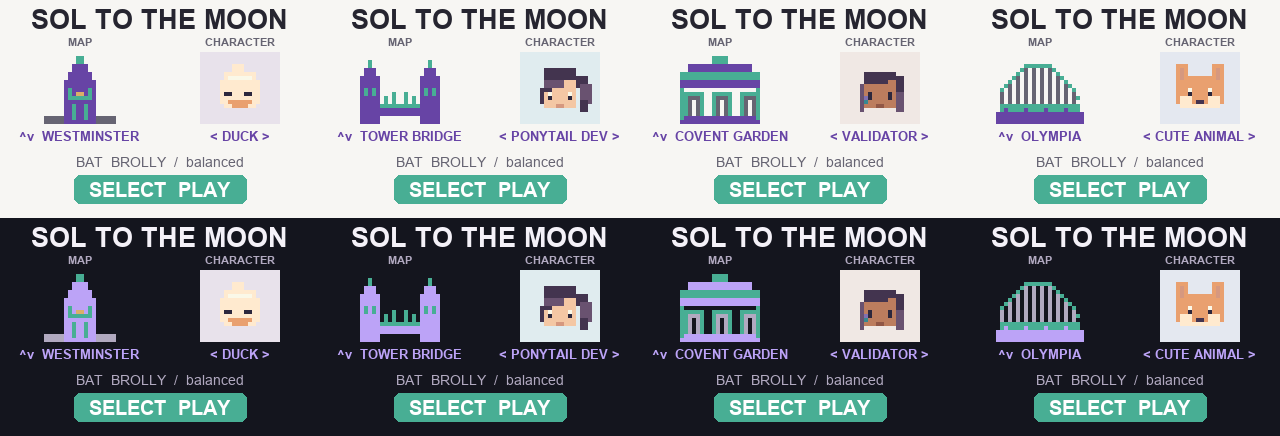
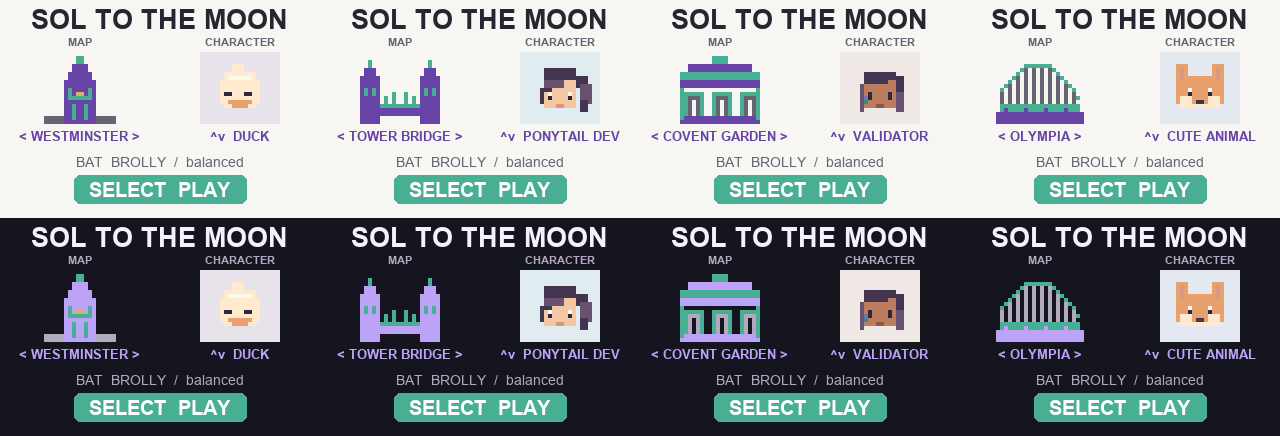
release: finalize press-to-pump controls and store copy

diff --git a/sim.py b/sim.py
@@ -12,11 +12,14 @@ def tick(n=1):
 def state(): return G._S.mode
 
 def play_swing(release_at_y):
-    """hold select from the first tick, release when token y >= release_at_y"""
-    while state() in ("intro", "ready"):
-        tick()
-    assert state() == "drop"
+    """press to drop, hold for power, release near the bat"""
+    while state() == "intro": tick()
+    keys["select"] = False
+    while state() == "ready" and not G._S.armed: tick()
+    assert state() == "ready" and G._S.token.y == -8
     keys["select"] = True
+    G.on_key("select", False)
+    assert state() == "drop" and G._S.charging
     while state() == "drop":
         tick()
         if G._S.token.y >= release_at_y: keys["select"] = False
@@ -31,21 +34,21 @@ random.seed(1)
 assert state() == "title"
 assert any(x == ("label", "SOL TO THE MOON") for x in log), "new title must render immediately"
 assert store.get("stage1Done") is None
-G.on_key("up", False)
-assert store.get("map") == 2, "UP should cycle map without starting the game"
-G.on_key("up", False); assert store.get("map") == 3
-G.on_key("up", False); assert store.get("map") == 4, "Olympia must be selectable"
-assert any(x == ("label", "^v  OLYMPIA") for x in log)
-G.on_key("up", False); assert store.get("map") == 1, "map selection must wrap"
-G.on_key("up", False); assert store.get("map") == 2
-assert any(x == ("label", "^v  COVENT GARDEN") for x in log)
-tick(2)  # exercise the preview renderer after switching maps
-G.on_key("left", False)  # wraps past the hidden skin
+G.on_key("right", False)
+assert store.get("map") == 2, "RIGHT should cycle map without starting the game"
+G.on_key("right", False); assert store.get("map") == 3
+G.on_key("right", False); assert store.get("map") == 4, "Olympia must be selectable"
+assert any(x == ("label", "< OLYMPIA >") for x in log)
+G.on_key("right", False); assert store.get("map") == 1, "map selection must wrap"
+G.on_key("right", False); assert store.get("map") == 2
+assert any(x == ("label", "< TOWER BRIDGE >") for x in log)
+tick(2)
+G.on_key("up", False)  # wraps past the hidden skin
 assert store.get("skin") == 9, "hidden skin must be skipped before stage 1 is done"
-G.on_key("down", False); assert store.get("map") == 1, "DOWN selects the previous map"
-G.on_key("down", False); assert store.get("map") == 4, "DOWN wraps from first to last map"
-G.on_key("up", False); assert store.get("map") == 1
-G.on_key("up", False); assert store.get("map") == 2
+G.on_key("left", False); assert store.get("map") == 1, "LEFT selects the previous map"
+G.on_key("left", False); assert store.get("map") == 4, "LEFT wraps from first to last map"
+G.on_key("right", False); assert store.get("map") == 1
+G.on_key("right", False); assert store.get("map") == 2
 G.on_key("select", False); assert state() == "intro", state()
 keys["select"] = True  # nervous player holds/mashes during the fly-in
 G.on_key("select", False)
@@ -53,7 +56,7 @@ tick(21); assert state() == "ready", "fly-in must lead to a protected ready stat
 tick(40); assert state() == "ready" and G._S.token.y == -8, "held input must not consume a kick"
 keys["select"] = False
 tick(14); assert state() == "ready", "release needs a brief calm beat"
-tick(1); assert state() == "drop" and not G._S.charging and G._S.token.y == -8
+tick(1); assert state() == "ready" and G._S.armed and G._S.token.y == -8
 assert G._S.map == 2, "selected scene must carry into gameplay"
 results = [play_swing(43)]
 assert state() == "intro", "second kick should have its own fly-in"
@@ -65,7 +68,7 @@ keys["select"] = False
 results.extend([play_swing(36), play_swing(60)])
 assert store.get("stage1Done") is True, "Sabadinhos skin should unlock after stage 1"
 G.on_key("back", False); assert state() == "title"
-G.on_key("right", False); assert store.get("skin") == 10, "Sabadinhos should be selectable after stage 1"
+G.on_key("down", False); assert store.get("skin") == 10, "Sabadinhos should be selectable after stage 1"
 G.on_key("select", False); assert state() == "intro", "unlocked skin should launch immediately"
 G.on_key("back", False); assert state() == "pause"
 G.on_key("down", False); assert state() == "title"
@@ -110,8 +113,9 @@ assert any("7.  YOU" == item["title"] for item in items), items
 G.on_key("back", False); assert state() == "title"
 print("OK")
 
-# DOWN on title moves the map, while the selected bat persists after the result screen.
-G.on_key("down", False); assert store.get("stick") == 1
+# DOWN on title moves the character, while the selected bat persists after the result screen.
+old_skin = store.get("skin")
+G.on_key("down", False); assert store.get("stick") == 1 and store.get("skin") != old_skin
 G.on_key("select", False); print("mode after replay (best=%s):" % store.get("best"), state())
 print("ranks stored:", store.get("ranks") and [dict(v.items()) for v in store.get("ranks").values()])
 print("OK2")

diff --git a/sim_final_controls.py b/sim_final_controls.py
@@ -1,0 +1,63 @@
+"""Final public controls: map/character arrows and press-to-start timing."""
+from sim_env import load
+
+L, g, keys = load(seed=13)
+
+def tick(n=1):
+    for _ in range(n):
+        g.on_tick(30)
+
+assert g._S.mode == "title"
+g.on_key("right", False)
+assert g._store["map"] == 2 and g._store.get("skin", 1) == 1
+
+g.on_key("left", False)
+assert g._store["map"] == 1
+g.on_key("down", False)
+assert g._store["skin"] == 2 and g._store["map"] == 1
+g.on_key("up", False)
+assert g._store["skin"] == 1
+
+g.on_key("select", False)
+assert g._S.mode == "intro"
+keys["select"] = True
+tick(22)
+assert g._S.mode == "ready"
+tick(50)
+assert g._S.mode == "ready" and g._S.token.y == -8
+keys["select"] = False
+tick(17)
+assert g._S.mode == "ready" and g._S.armed
+# It must not fall until a fresh SELECT press, even after a long idle.
+tick(150)
+assert g._S.mode == "ready" and g._S.token.y == -8 and g._S.swing == 1
+assert any(x == ("label", "HOLD SELECT") for x in g._log)
+keys["select"] = True
+g.on_key("select", False)
+assert g._S.mode == "drop" and g._S.charging and g._S.token.y == -8
+tick(5)
+assert g._S.token.y > -8 and g._S.power > 0
+while g._S.token.y < 43:
+    tick()
+keys["select"] = False
+tick()
+assert g._S.mode == "flight", "release near the bat should launch"
+for _ in range(1000):
+    if g._S.mode == "intro":
+        break
+    tick()
+assert g._S.mode == "intro" and g._S.swing == 2
+
+# A tap that releases while the coin is still high must not create negative flight speed.
+L2, g2, keys2 = load(seed=13)
+g2.on_key("select", False)
+for _ in range(21): g2.on_tick(30)
+assert g2._S.mode == "ready"
+for _ in range(15): g2.on_tick(30)
+assert g2._S.armed
+keys2["select"] = True
+g2.on_key("select", False)
+keys2["select"] = False
+g2.on_tick(30)
+assert g2._S.mode == "miss" and g2._S.flight is None
+print("OK: arrows, release-to-arm, press-to-drop, held kick, early-tap safety")

diff --git a/sim_controls.py b/sim_controls.py
@@ -29,10 +29,15 @@ assert g._S.swing == 1 and g._S.total == 0
 
 g.on_key("back", False)
 assert g._S.mode == "intro", "CANCEL while paused should resume"
-while g._S.mode in ("intro", "ready"):
+while g._S.mode == "intro":
     tick(g)
-assert g._S.mode == "drop"
+keys["select"] = False
+while g._S.mode == "ready" and not g._S.armed:
+    tick(g)
+assert g._S.mode == "ready" and g._S.token.y == -8
 keys["select"] = True
+g.on_key("select", False)
+assert g._S.mode == "drop"
 tick(g, 4)
 assert g._S.charging and g._S.power > 0
 frozen_y = g._S.token.y
@@ -52,8 +57,10 @@ tick(g, 30)
 assert g._S.mode == "ready" and g._S.swing == 1
 keys["select"] = False
 tick(g, 15)
-assert g._S.mode == "drop" and g._S.token.y == -8
+assert g._S.mode == "ready" and g._S.armed and g._S.token.y == -8
 keys["select"] = True
+g.on_key("select", False)
+assert g._S.mode == "drop" and g._S.charging
 while g._S.token.y < 43:
     tick(g)
 keys["select"] = False

diff --git a/scripts/menu_study.py b/scripts/menu_study.py
@@ -42,8 +42,8 @@ for theme in range(2):
   center(d,'SOL TO THE MOON',4,f(27,True),ink)
   center(d,'MAP',36,f(11,True),muted,0,160)
   center(d,'CHARACTER',36,f(11,True),muted,160,320)
-  center(d,'^v  '+mapname,129,f(13,True),purple,0,160)
-  center(d,'< '+name+' >',129,f(13,True),purple,160,320)
+  center(d,'< '+mapname+' >',129,f(13,True),purple,0,160)
+  center(d,'^v  '+name,129,f(13,True),purple,160,320)
   center(d,'BAT  BROLLY  /  balanced',154,f(14),muted)
   d.rounded_rectangle((74,175,246,203),radius=6,fill=(72,174,148))
   center(d,'SELECT  PLAY',178,f(20,True),(255,255,255))

diff --git a/README.md b/README.md
@@ -1,23 +1,23 @@
 # SOL TO THE MOON
 
-A three-kick arcade game for the **Solana Breakpoint 2026 badge**. Catch the falling SOL coin with a timed swing, use wind to your advantage, and chase a longer total across four London-inspired maps.
+PUMP a SOL coin across London. Three kicks, four maps, nearby scores. Built for the **Solana Breakpoint 2026 badge**.
 
 **At a glance**
 
 - **Platform:** ESP32-C5 · Solana OS · Lua 5.5. App ID: `moonshot`.
-- **Play:** pick a map and character; hold SELECT to charge, release to kick. Three kicks per run.
+- **Play:** pick a map and character; press and hold SELECT to start the falling coin and charge power, then release near the bat. Three kicks per run.
 - **Social:** nearby badges running this app exchange personal-best scores over mesh. Your rank and up to four peer scores appear on the results screen. Not Yearbook, not a global or verified-friends leaderboard.
 - **Rewards:** code requests 1 !LAMP at 600 m or 3 at 1,100 m. **Inactive until DevRel approves a daily award cap.** Peer scores never determine rewards.
-- **Status:** v0.5.3 tested in a headless simulator; physical-badge and two-badge mesh QA pending. **Not published in the badge App Store.**
+- **Status:** v1.0.0 tested in a headless simulator; physical-badge and two-badge mesh QA pending. **Not published in the badge App Store.**
 
-[DevRel brief and release checks](docs/DEVREL.md) · [Solana OS API](https://solana.com/breakpoint/badge/apps/docs)
+[App Store copy](docs/STORE_COPY.md) · [DevRel brief and release checks](docs/DEVREL.md) · [Solana OS API](https://solana.com/breakpoint/badge/apps/docs)
 
 ## Test on a badge
 
 Upload **`main.lua` + `app.json` only** at the [app submission page](https://solana.com/breakpoint/badge/apps/submit); use the emulator or USB **Run on badge** before publishing. The `dist/` ZIP is a local test artifact, not part of this GitHub repository. To test rankings, run the app on two badges on the same mesh channel, finish a run and press UP on the results screen.
 
-A short parallax intro is followed by an input-safe ready beat: the launch press must be released and stay released briefly before the coin starts falling. Early button mashing during the animation cannot waste a kick. Wind is shown by small, irregular drifting curls rather than long straight streaks.
+A short parallax intro is followed by an input-safe ready beat. Release the launch press; a fresh SELECT press starts the coin falling and begins charging. Keep it held, then release at the bat. Early button mashing during the animation cannot waste a kick. Wind is shown by small, irregular drifting curls.
 
-Menu: UP/DOWN maps, LEFT/RIGHT characters, SELECT play. During play: hold/release SELECT. Results: DOWN cycles the next bat, UP opens ranks, SELECT replays. CANCEL during play pauses without advancing the coin; SELECT or CANCEL resumes, DOWN returns to the menu, RIGHT opens quit confirmation. CANCEL on the menu opens quit confirmation: SELECT/CANCEL stays, RIGHT exits. A slim two-colour 140 ms sweep animates scene changes without delaying play. The OS HOME button always exits and cannot be intercepted by an app.
+Menu: LEFT/RIGHT maps, UP/DOWN characters, SELECT play. During play: press and hold SELECT to start the drop; release at the bat. Results: DOWN cycles the next bat, UP opens ranks, SELECT replays. CANCEL during play pauses without advancing the coin; SELECT or CANCEL resumes, DOWN returns to the menu, RIGHT opens quit confirmation. CANCEL on the menu opens quit confirmation: SELECT/CANCEL stays, RIGHT exits. A slim two-colour 140 ms sweep animates scene changes without delaying play. The OS HOME button always exits and cannot be intercepted by an app.
 
-Local tests (Python with `lupa`): `python sim.py` and `python calib.py 10`. The screenshots in `shots/` are **generated art studies, not badge captures**.
+Local tests (Python with `lupa`): `python sim.py`, `python sim_controls.py`, `python sim_final_controls.py` and `python calib.py 10`. The screenshots in `shots/` are **generated art studies, not badge captures**.

diff --git a/docs/DEVREL.md b/docs/DEVREL.md
@@ -6,7 +6,7 @@
 
 ## What the player does
 
-Pick one of four London maps and a character. A SOL coin drops; hold SELECT to charge and release near the bat to kick it. Three kicks make a run; the sum of their distances is the final score. Wind changes the flight, with small drifting curls indicating its direction. Each kick starts with a brief parallax intro and an input-safe ready beat: holding or repeatedly pressing SELECT cannot spend a kick before the animation is over and the button has been released. An end screen shows the results. Maps, characters, bats and personal best persist on that badge.
+Pick one of four London maps with LEFT/RIGHT and a character with UP/DOWN. SELECT starts the short parallax intro; after releasing the launch press, a fresh SELECT press starts the falling SOL coin and charges power while held. Release near the bat. Three kicks make a run; the sum of their distances is the final score. Wind changes the flight, with small drifting curls indicating its direction. Early input during the intro cannot consume a kick. An end screen shows the results. Maps, characters, bats and personal best persist on that badge.
 
 ## Nearby scores
 
@@ -19,7 +19,7 @@ The app requests 1 !LAMP for a run of at least 600 m, or 3 !LAMPs for at least 1
 ## Release and test
 
 - `main.lua` and `app.json` are the upload package. The tested ZIP is produced locally under `dist/`; the GitHub repository also includes test and art sources, so do not upload the entire repository.
-- Local Lua simulation covers menu controls, protected kick input, pause/resume and quit confirmation, three-kick play, persistence, results, reward callback and mesh message validation; the physics sweep and source-art/package checks passed for v0.5.3.
+- Local Lua simulation covers menu controls, fresh-press-to-drop timing and pause/resume, three-kick play, persistence, results, reward callback and mesh message validation; the physics sweep and source-art/package checks passed for v1.0.0.
 - **Not yet verified on the physical badge.** Before App Store publication, run the ZIP via the submission page's emulator / USB **Run on badge**; test rendering, memory, input, two-badge mesh exchange and the interaction between mesh radio and Wi-Fi. A sign-in and linked X account are required to publish.
 - Publishing without an award cap is possible. Once a cap exists, subsequent code/file/permission changes require organiser approval. Ask DevRel for the cap separately after the gameplay and reward policy are validated.
 

diff --git a/docs/STORE_COPY.md b/docs/STORE_COPY.md
@@ -1,0 +1,16 @@
+# App Store copy
+
+## Summary
+
+PUMP a SOL coin across London. Three kicks, four maps, nearby scores.
+
+## Description
+
+↔ = Select Map
+↕ = Select Character
+SELECT = Kick
+CANCEL = Exit
+
+The description is short store copy, not the full control flow. In play, press and hold SELECT to start the falling coin and charge power; release near the bat. CANCEL pauses first, and quitting requires confirmation. The OS HOME button exits immediately. Nearby scores are self-reported mesh scores, not a global or verified-friends leaderboard. !LAMPs remain inactive until DevRel grants the app a daily award cap.
+
+`app.json` carries the summary; the Solana OS documented manifest does not list a `description` field. Paste the description into the submission form if that field is offered rather than adding an unsupported manifest key.
